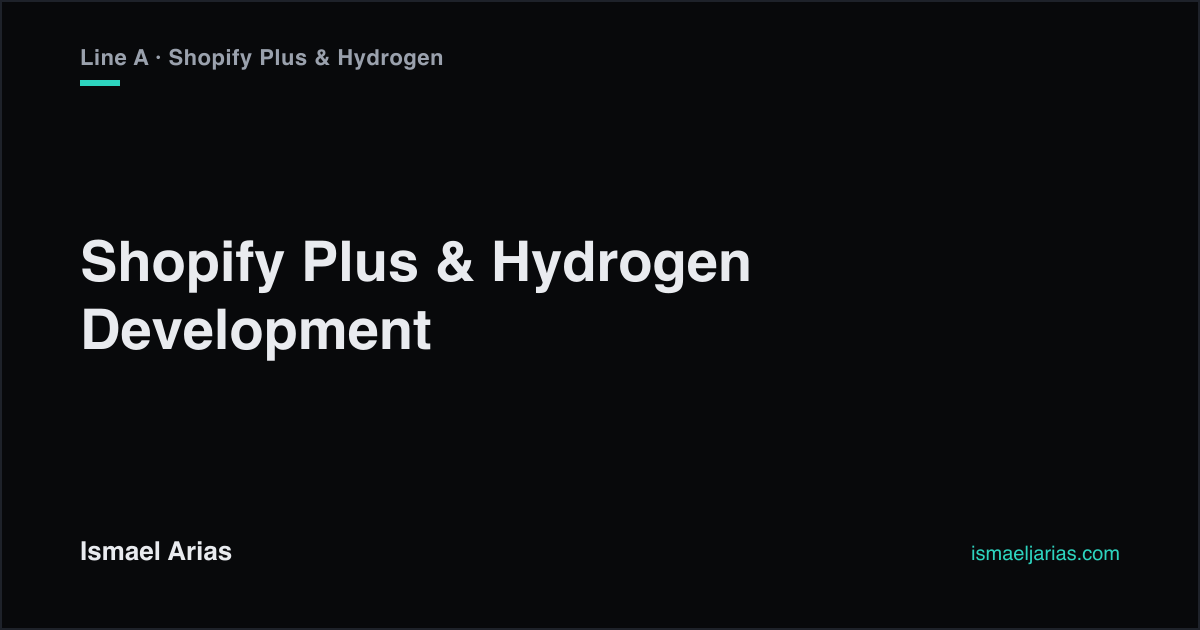
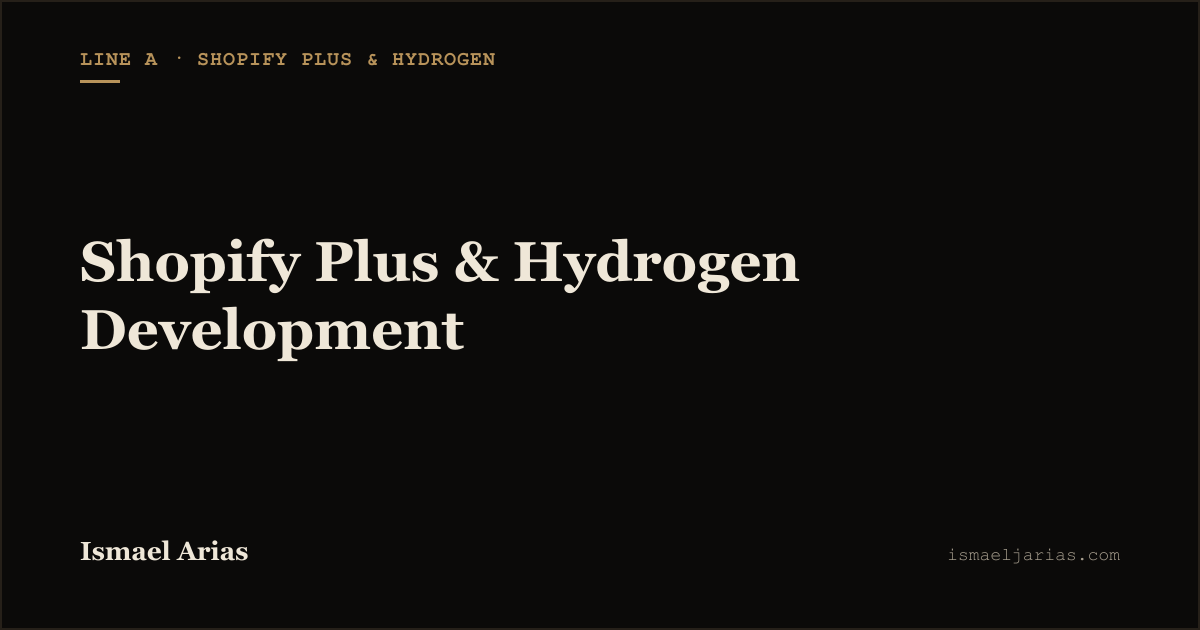
Redesign visual identity: black/burgundy/brass palette, serif+mono type system
Replaces the generic dark-teal SaaS look with an "old money meets tech"
direction: near-black background, burgundy accent, brass secondary accent,
Newsreader serif for headlines/logo, mono for labels/tags/nav, sharp-to-soft
button corners (8px). Fixes contrast issues introduced by the darker accent
color and keeps Lighthouse at 100/100/100/100 across every page and locale.

Also updates the bio copy to reflect the current role at CQL (a Shopify
Platinum Partner agency) instead of positioning Amazon as the most recent
job, and refreshes the PageSpeed Insights proof image/metrics on /shopify
with the latest production numbers.

diff --git a/src/i18n/content.ts b/src/i18n/content.ts
@@ -23,7 +23,7 @@ const en = {
   meta: {
     titleSuffix: 'Ismael Arias — Senior Shopify Developer',
     description:
-      'Senior Shopify Developer (ex-Amazon) building fast Shopify Plus / Hydrogen storefronts and custom WordPress sites. Available worldwide, with full overlap with US business hours.',
+      'Senior Shopify Developer at CQL, a Shopify Platinum Partner agency (ex-Amazon), building fast Shopify Plus / Hydrogen storefronts and custom WordPress sites. Available worldwide, with full overlap with US business hours.',
   },
   nav: {
     home: 'Home',
@@ -35,15 +35,15 @@ const en = {
     langSwitchLabel: 'Español',
   },
   footer: {
-    tagline: 'Senior Shopify Developer, ex-Amazon. Working worldwide, full overlap with US hours.',
+    tagline: 'Senior Shopify Developer at CQL, ex-Amazon. Working worldwide, full overlap with US hours.',
     linksHeading: 'Site',
     contactHeading: 'Contact',
     rights: `© ${new Date().getFullYear()} Ismael Arias. All rights reserved.`,
   },
   home: {
-    eyebrow: 'Senior Shopify Developer · Ex-Amazon · Shopify App Store Developer',
+    eyebrow: 'Senior Shopify Developer · CQL · Ex-Amazon',
     h1: 'Shopify and WordPress sites that load fast, convert, and don’t break at scale.',
-    sub: 'I design, build, and fix Shopify Plus / Hydrogen storefronts and fast WordPress sites for teams tired of guessing why performance and conversion stall. 10+ years shipping production frontend, most recently as a Frontend Engineer II at Amazon.',
+    sub: 'I design, build, and fix Shopify Plus / Hydrogen storefronts and fast WordPress sites for teams tired of guessing why performance and conversion stall. 10+ years shipping production frontend, currently as a Senior Shopify Developer at CQL — a Shopify Platinum Partner agency — and previously a Frontend Engineer II at Amazon.',
     appNote: 'I also design and ship my own Shopify app, live on the Shopify App Store.',
     ctaPrimary: 'Book a call',
     ctaSecondary: 'See the Performance Audit',
@@ -100,9 +100,9 @@ const en = {
   shopify: {
     eyebrow: 'Line A · Shopify Plus & Hydrogen',
     h1: 'Enterprise-grade engineering for Shopify Plus stores.',
-    sub: 'I help D2C brands on Shopify Plus fix performance, ship Hydrogen/headless architecture, and build what Checkout Extensibility and Shopify Functions actually require — backed by 10+ years of production React/TypeScript, most recently as a Frontend Engineer II at Amazon.',
+    sub: 'I help D2C brands on Shopify Plus fix performance, ship Hydrogen/headless architecture, and build what Checkout Extensibility and Shopify Functions actually require — backed by 10+ years of production React/TypeScript, currently at CQL, a Shopify Platinum Partner agency, and previously a Frontend Engineer II at Amazon.',
     metaDescription:
-      'Senior Shopify Developer (ex-Amazon) for Shopify Plus stores — Hydrogen/headless storefronts, Checkout Extensibility, Shopify Functions, and Core Web Vitals performance work.',
+      'Senior Shopify Developer at CQL, a Shopify Platinum Partner agency (ex-Amazon), for Shopify Plus stores — Hydrogen/headless storefronts, Checkout Extensibility, Shopify Functions, and Core Web Vitals performance work.',
     ctaPrimary: 'Book a call',
     app: {
       eyebrow: 'Built from scratch',
@@ -202,7 +202,7 @@ const en = {
   work: {
     eyebrow: 'Selected work',
     h1: 'A few problems I’ve actually solved.',
-    sub: 'Real engineering work from my time at Amazon and Kritik, plus a Shopify app I designed and shipped solo — described plainly: the problem, what I did, and what changed.',
+    sub: 'Real engineering work from my time at CQL, Amazon, and Kritik, plus a Shopify app I designed and shipped solo — described plainly: the problem, what I did, and what changed.',
     cardCta: 'Read the case study',
     finalHeading: 'Want engineering like this on your store or site?',
     finalCta: 'Book a call',
@@ -222,7 +222,7 @@ const es = {
   meta: {
     titleSuffix: 'Ismael Arias — Senior Shopify Developer',
     description:
-      'Senior Shopify Developer (ex-Amazon) construyendo tiendas Shopify Plus / Hydrogen y sitios WordPress rápidos. Disponible en cualquier parte del mundo, con el mismo horario de negocios que EE. UU.',
+      'Senior Shopify Developer en CQL, una agencia Shopify Platinum Partner (ex-Amazon), construyendo tiendas Shopify Plus / Hydrogen y sitios WordPress rápidos. Disponible en cualquier parte del mundo, con el mismo horario de negocios que EE. UU.',
   },
   nav: {
     home: 'Inicio',
@@ -234,15 +234,15 @@ const es = {
     langSwitchLabel: 'English',
   },
   footer: {
-    tagline: 'Senior Shopify Developer, ex-Amazon. Trabajando desde cualquier parte del mundo, con el mismo horario que EE. UU.',
+    tagline: 'Senior Shopify Developer en CQL, ex-Amazon. Trabajando desde cualquier parte del mundo, con el mismo horario que EE. UU.',
     linksHeading: 'Sitio',
     contactHeading: 'Contacto',
     rights: `© ${new Date().getFullYear()} Ismael Arias. Todos los derechos reservados.`,
   },
   home: {
-    eyebrow: 'Senior Shopify Developer · Ex-Amazon · Shopify App Store Developer',
+    eyebrow: 'Senior Shopify Developer · CQL · Ex-Amazon',
     h1: 'Tiendas Shopify y sitios WordPress que cargan rápido, convierten y no se rompen al crecer.',
-    sub: 'Diseño, construyo y arreglo tiendas Shopify Plus / Hydrogen y sitios WordPress rápidos para equipos cansados de adivinar por qué el rendimiento y la conversión no avanzan. 10+ años construyendo frontend en producción, más recientemente como Frontend Engineer II en Amazon.',
+    sub: 'Diseño, construyo y arreglo tiendas Shopify Plus / Hydrogen y sitios WordPress rápidos para equipos cansados de adivinar por qué el rendimiento y la conversión no avanzan. 10+ años construyendo frontend en producción, actualmente como Senior Shopify Developer en CQL — una agencia Shopify Platinum Partner — y antes Frontend Engineer II en Amazon.',
     appNote: 'También diseño y publico mi propia app de Shopify, disponible en el Shopify App Store.',
     ctaPrimary: 'Agenda una llamada',
     ctaSecondary: 'Ver el Performance Audit',
@@ -299,9 +299,9 @@ const es = {
   shopify: {
     eyebrow: 'Línea A · Shopify Plus & Hydrogen',
     h1: 'Ingeniería de nivel enterprise para tiendas Shopify Plus.',
-    sub: 'Ayudo a marcas D2C en Shopify Plus a resolver rendimiento, construir arquitectura Hydrogen/headless, y desarrollar lo que Checkout Extensibility y Shopify Functions realmente requieren — respaldado por 10+ años de React/TypeScript en producción, el más reciente como Frontend Engineer II en Amazon.',
+    sub: 'Ayudo a marcas D2C en Shopify Plus a resolver rendimiento, construir arquitectura Hydrogen/headless, y desarrollar lo que Checkout Extensibility y Shopify Functions realmente requieren — respaldado por 10+ años de React/TypeScript en producción, actualmente en CQL, una agencia Shopify Platinum Partner, y antes Frontend Engineer II en Amazon.',
     metaDescription:
-      'Senior Shopify Developer (ex-Amazon) para tiendas Shopify Plus — tiendas Hydrogen/headless, Checkout Extensibility, Shopify Functions y trabajo de rendimiento en Core Web Vitals.',
+      'Senior Shopify Developer en CQL, una agencia Shopify Platinum Partner (ex-Amazon), para tiendas Shopify Plus — tiendas Hydrogen/headless, Checkout Extensibility, Shopify Functions y trabajo de rendimiento en Core Web Vitals.',
     ctaPrimary: 'Agenda una llamada',
     app: {
       eyebrow: 'Construida desde cero',
@@ -401,7 +401,7 @@ const es = {
   work: {
     eyebrow: 'Trabajo seleccionado',
     h1: 'Algunos problemas que ya resolví.',
-    sub: 'Trabajo de ingeniería real de mi paso por Amazon y Kritik, más una app de Shopify que diseñé y publiqué en solitario — descrito en términos simples: el problema, qué hice, y qué cambió.',
+    sub: 'Trabajo de ingeniería real de mi paso por CQL, Amazon y Kritik, más una app de Shopify que diseñé y publiqué en solitario — descrito en términos simples: el problema, qué hice, y qué cambió.',
     cardCta: 'Ver el caso completo',
     finalHeading: '¿Quieres ingeniería así en tu tienda o sitio?',
     finalCta: 'Agenda una llamada',

diff --git a/src/styles/global.css b/src/styles/global.css
@@ -1,17 +1,20 @@
 @import "tailwindcss";
 
 @theme {
-  --color-bg: #08090b;
-  --color-bg-soft: #101319;
-  --color-bg-card: #12151b;
-  --color-ink: #e9ebef;
-  --color-ink-muted: #9aa1ad;
-  --color-ink-faint: #7a8290;
-  --color-accent: #2dd4bf;
-  --color-accent-soft: #99f6ec;
-  --color-border: #1e222a;
+  --color-bg: #0b0a09;
+  --color-bg-soft: #100e0d;
+  --color-bg-card: #141210;
+  --color-ink: #efe7d8;
+  --color-ink-muted: #a89f8f;
+  --color-ink-faint: #8f8678;
+  --color-accent: #7c1626;
+  --color-accent-soft: #cf6b76;
+  --color-brass: #b8935a;
+  --color-border: #262019;
 
   --font-sans: "InterVariable", ui-sans-serif, system-ui, -apple-system, sans-serif;
+  --font-serif: "Newsreader Variable", Georgia, "Times New Roman", serif;
+  --font-mono: ui-monospace, "SF Mono", Menlo, Consolas, monospace;
 
   --animate-fade-up: fade-up 0.6s ease-out both;
 
@@ -46,7 +49,7 @@ body {
 
 ::selection {
   background-color: var(--color-accent);
-  color: var(--color-bg);
+  color: var(--color-ink);
 }
 
 [data-reveal] {
@@ -92,9 +95,9 @@ body {
 }
 
 .case-prose code {
-  border-radius: 0.25rem;
   background-color: var(--color-bg-soft);
   padding: 0.125rem 0.375rem;
   font-size: 0.85em;
-  color: var(--color-accent-soft);
+  font-family: var(--font-mono);
+  color: var(--color-brass);
 }

diff --git a/src/data/pagespeed.ts b/src/data/pagespeed.ts
@@ -1,7 +1,7 @@
 // Measured directly from PageSpeed Insights against the live production site
-// (https://ismaeljarias.com/) — report captured Sep 7, 2026, 5:35:03 PM.
-// Mobile: Performance 100, FCP 0.9s, LCP 0.9s, TBT 0ms, CLS 0, Speed Index 2.3s.
-// Desktop: Performance 100, FCP 0.2s, LCP 0.2s, TBT 0ms, CLS 0, Speed Index 0.4s.
+// (https://ismaeljarias.com/) — report captured Sep 11, 2026, 4:01:08 PM.
+// Mobile: Performance 100, FCP 0.9s, LCP 1.4s, TBT 0ms, CLS 0.017, Speed Index 1.0s.
+// Desktop: Performance 100, FCP 0.2s, LCP 0.2s, TBT 0ms, CLS 0.017, Speed Index 0.3s.
 // Mobile numbers are used below (the harder constraint, and what PageSpeed
 // Insights shows by default). Re-run at https://pagespeed.web.dev and update
 // after any change that could affect the homepage's load performance.
@@ -14,7 +14,7 @@
 // data (usually ~28 days).
 export const pagespeed = {
   performance: 100,
-  lcp: '0.9',
+  lcp: '1.4',
   inp: '<200',
-  cls: '0.00',
+  cls: '0.02',
 } as const;
